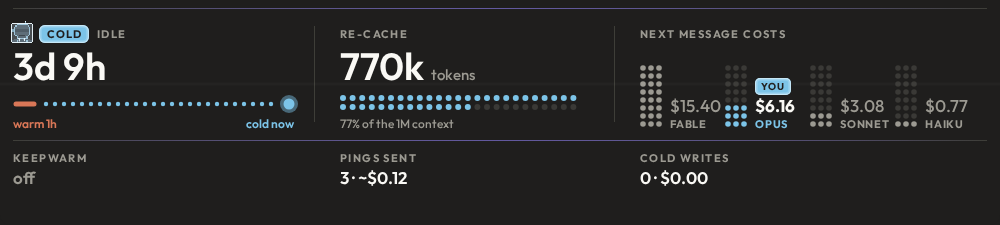
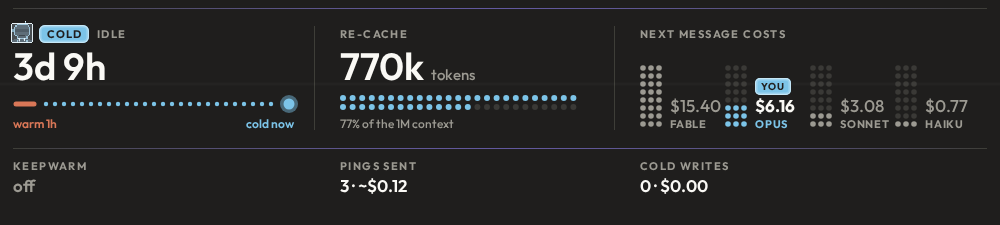
fix(ui): keep the select in the row, one box for card
The select was cut at the right edge: the width estimate was too
tight for the desktop font. Characters, buttons and a safety margin
are larger, and the row gives up the reset times, the USAGE word and
then bar length before anything else. Row and card now share one dark
box, with no grey strip between them and little padding under the card.

Changed region(s): [[0.0, 0.6222, 0.992, 0.8711]]

diff --git a/src/ui/band.tsx b/src/ui/band.tsx
@@ -12,7 +12,7 @@ import { readWindows, windowParts } from '../usage/usage'
 import { CHIP_WIDTHS, barSvg, chipSvg, justPinged, mascotSvg, wordOf } from './art'
 import { cardSvg } from './card'
 import {
-  BAR_H, BAR_W, BAR_W_SHORT, BG, BTN_CHROME, CELL_PX, CHAR_PX, PAD_PX, CELLS, CHIP_EDGE, EMPTY, HEAD_ROWS, HUE, INK, KW_COLORS, KW_LONG_AT, KW_LONG_AT_TERMINAL, LOW_AT, LOW_COLOR, MASCOT_SIZE, MUTED, ROW_PX,
+  BAR_H, BAR_W, BAR_W_SHORT, BG, SAFETY_PX, SELECT_CHROME, BTN_CHROME, CELL_PX, CHAR_PX, PAD_PX, CELLS, CHIP_EDGE, EMPTY, HEAD_ROWS, HUE, INK, KW_COLORS, KW_LONG_AT, KW_LONG_AT_TERMINAL, LOW_AT, LOW_COLOR, MASCOT_SIZE, MUTED, ROW_PX,
   TEXT, CARD_MAX_PX, TIGHT_CELLS, bandPx, kindOf,
 } from './theme'
 
@@ -53,7 +53,7 @@ export async function renderBand($: RenderArgs[0], e: RenderArgs[1], next: Rende
 
   if (list.length === 0 && !view) {
     return (
-      <Box backgroundColor={BG} paddingX="md" paddingY="md">
+      <Box backgroundColor={BG} paddingX="md" paddingTop="md" paddingBottom="md">
         <Text color={MUTED}>{`${t('band.usage')} · ${t('band.waiting')}`}</Text>
       </Box>
     )
@@ -78,13 +78,13 @@ export async function renderBand($: RenderArgs[0], e: RenderArgs[1], next: Rende
 
   // Wide: every window on one row. Narrow: each window is a block of three
   // lines (name and dots, percent left, reset time) so nothing wraps or clips.
-  // `lvl` is how crowded the row is: 0 as drawn, 1 without the reset times, 2 also with shorter bars.
+  // `lvl` is how crowded the row is: 0 as drawn, 1 without the reset times, 2 also without the USAGE word, 3 also with shorter bars.
   const wide = (w: Window, i: number, lvl = 0) => {
     const p = parts(w)
     return (
       <Box key={`w-${i}`} flexDirection="row" flexShrink={0} alignItems="center" marginRight={compact ? 2 : 3}>
         <Text color={MUTED} bold>{p.name} </Text>
-        {meter(p, lvl > 1 ? BAR_W_SHORT : BAR_W)}
+        {meter(p, lvl > 2 ? BAR_W_SHORT : BAR_W)}
         <Text color={p.col} bold> {p.left}%{compact ? '' : ` ${t('band.left')}`}</Text>
         {p.left < LOW_AT ? <Text color={LOW_COLOR} bold>{` ${t('band.low')}`}</Text> : null}
         {p.reset && lvl === 0 ? <Text color={MUTED}> · {p.reset}</Text> : null}
@@ -154,8 +154,8 @@ export async function renderBand($: RenderArgs[0], e: RenderArgs[1], next: Rende
       />
     </Box>
   )
-  const kwRow = (
-    <Box key="kwrow" flexDirection="row" paddingX="md" paddingY="md" alignItems="center">
+  const kwRowOf = (padB: 'sm' | 'md') => (
+    <Box key="kwrow" flexDirection="row" paddingX="md" paddingTop="md" paddingBottom={padB} alignItems="center">
       {kwIndicator}
       {grow}
       {kwSelect}
@@ -166,7 +166,7 @@ export async function renderBand($: RenderArgs[0], e: RenderArgs[1], next: Rende
   // plus the keepwarm row once keepwarm is armed or has stopped.
   if (!view) {
     const row = (
-      <Box key="row" flexDirection="row" paddingX="md" paddingY="md">
+      <Box key="row" flexDirection="row" paddingX="md" paddingTop="md" paddingBottom="md">
         {label}
         {usage}
       </Box>
@@ -174,7 +174,7 @@ export async function renderBand($: RenderArgs[0], e: RenderArgs[1], next: Rende
     return (
       <Box flexDirection="column" width="100%" backgroundColor={BG}>
         {row}
-        {value.tone === 'off' ? null : kwRow}
+        {value.tone === 'off' ? null : kwRowOf('md')}
       </Box>
     )
   }
@@ -200,6 +200,8 @@ export async function renderBand($: RenderArgs[0], e: RenderArgs[1], next: Rende
   }
   const fits = Svg !== null && drawCard(false) !== null
   const open = fits && (stored && stored.mode === mode ? stored.open : cold)
+  // Open, the card follows at once: the row keeps less room under it.
+  const padB = open ? 'sm' : 'md'
   const toggle = () => toggleFold($, mode)
 
   const badge = Svg
@@ -235,11 +237,11 @@ export async function renderBand($: RenderArgs[0], e: RenderArgs[1], next: Rende
   const textPx = (str: string) => str.length * CHAR_PX
   const rowPx = (lvl: number): number => {
     const clock = '00/00 00:00'
-    let px = textPx(t('band.usage')) + (isWide ? 2 : 3) * CELL_PX
+    let px = lvl < 2 ? textPx(t('band.usage')) + (isWide ? 2 : 3) * CELL_PX : 0
     for (const w of list) {
       const p = parts(w)
       const text = `${p.name}  ${p.left}%${compact ? '' : ` ${t('band.left')}`}${p.left < LOW_AT ? ` ${t('band.low')}` : ''}${p.reset && lvl === 0 ? ` · ${p.reset}` : ''}`
-      px += textPx(text) + (Svg ? (lvl > 1 ? BAR_W_SHORT : BAR_W) : 0) + (compact ? 2 : 3) * CELL_PX
+      px += textPx(text) + (Svg ? (lvl > 2 ? BAR_W_SHORT : BAR_W) : 0) + (compact ? 2 : 3) * CELL_PX
     }
     if (!open) {
       const word = CHIP_WIDTHS[`${wordOf(mode)}@13`]?.w ?? 70
@@ -248,16 +250,16 @@ export async function renderBand($: RenderArgs[0], e: RenderArgs[1], next: Rende
     }
     if (!compact) px += textPx(`${isShort ? t('kw.nameShort') : t('kw.name')} ${isShort ? clock : t('kw.until', { time: clock })}`) + 2 * CELL_PX
     px += Math.max(...[t('band.show'), t('band.hide')].map(textPx)) + BTN_CHROME + 2 * CELL_PX
-    return px + textPx(`${t('kw.nameShort')} ${t('kw.select.always')}`) + BTN_CHROME + CELL_PX
+    return px + textPx(`${t('kw.nameShort')} ${t('kw.select.always')}`) + SELECT_CHROME + CELL_PX + SAFETY_PX
   }
   const room = columns * CELL_PX - 2 * PAD_PX
-  const level = !Svg || !isWide ? 0 : rowPx(0) <= room ? 0 : rowPx(1) <= room ? 1 : 2
+  const level = !Svg || !isWide ? 0 : [0, 1, 2].find(l => rowPx(l) <= room) ?? 3
 
   let rows
   if (kind === 'wide') {
     rows = (
-      <Box key="row" flexDirection="row" paddingX="md" paddingY="md" alignItems="center">
-        {label}
+      <Box key="row" flexDirection="row" paddingX="md" paddingTop="md" paddingBottom={padB} alignItems="center">
+        {level < 2 ? label : null}
         {usageAt(level)}
         {open ? null : (
           <Box key="inline" flexDirection="row" flexShrink={0} marginRight={compact ? 1 : 2} alignItems="center">
@@ -274,7 +276,7 @@ export async function renderBand($: RenderArgs[0], e: RenderArgs[1], next: Rende
   } else if (kind === 'stacked') {
     // The cache becomes a third stacked block, the same shape as 7D and 5H.
     rows = (
-      <Box key="row" flexDirection="row" paddingX="md" paddingY="md">
+      <Box key="row" flexDirection="row" paddingX="md" paddingTop="md" paddingBottom={padB}>
         {label}
         {usage}
         {open ? null : (
@@ -296,11 +298,11 @@ export async function renderBand($: RenderArgs[0], e: RenderArgs[1], next: Rende
   } else {
     // Narrow: the cache gets its own row under the usage blocks.
     rows = [
-      <Box key="row" flexDirection="row" paddingX="md" paddingY="md">
+      <Box key="row" flexDirection="row" paddingX="md" paddingTop="md" paddingBottom={padB}>
         {label}
         {usage}
       </Box>,
-      <Box key="cache" flexDirection="row" paddingX="md" paddingY="md" alignItems="center">
+      <Box key="cache" flexDirection="row" paddingX="md" paddingTop="md" paddingBottom={padB} alignItems="center">
         {badge}
         {summary}
         {grow}
@@ -323,11 +325,9 @@ export async function renderBand($: RenderArgs[0], e: RenderArgs[1], next: Rende
   }
 
   return (
-    <Box flexDirection="column" width="100%">
-      <Box flexDirection="column" backgroundColor={BG}>
-        {rows}
-        {isInline ? null : kwRow}
-      </Box>
+    <Box flexDirection="column" width="100%" backgroundColor={BG}>
+      {rows}
+      {isInline ? null : kwRowOf(padB)}
       {card}
     </Box>
   )

diff --git a/tests/keepwarm-band.test.ts b/tests/keepwarm-band.test.ts
@@ -4,7 +4,7 @@ import type { TestBody } from 'claude-code/testing'
 import { setLanguage } from '../src/i18n'
 import { kwCard } from '../src/keepwarm/view'
 import { cardSvg } from '../src/ui/card'
-import { AMBER, HUE, BTN_CHROME, CELL_PX, CHAR_PX, CHIP_EDGE, PAD_PX } from '../src/ui/theme'
+import { AMBER, HUE, BTN_CHROME, SAFETY_PX, SELECT_CHROME, CELL_PX, CHAR_PX, CHIP_EDGE, PAD_PX } from '../src/ui/theme'
 import { answerSession } from './answers'
 import { testIt as test } from './lang'
 
@@ -206,7 +206,7 @@ const px = (n: Node | string): number => {
   const props = n.props ?? {}
   if (n.type === 'Svg') return Number(props.width)
   if (n.type === 'Button') return String(props.label).length * CHAR_PX + BTN_CHROME
-  if (n.type === 'Select') return `${String(props.label)} ${String((props.options as Array<{ label: string }>).reduce((a, o) => (o.label.length > a.length ? o.label : a), ''))}`.length * CHAR_PX + BTN_CHROME
+  if (n.type === 'Select') return `${String(props.label)} ${String((props.options as Array<{ label: string }>).reduce((a, o) => (o.label.length > a.length ? o.label : a), ''))}`.length * CHAR_PX + SELECT_CHROME
   const kids = (n.children ?? []).map(px)
   const inner = props.flexDirection === 'column' ? Math.max(0, ...kids) : kids.reduce((a, b) => a + b, 0)
   return n.type === 'Text' ? inner : inner + (cells(props.marginLeft) + cells(props.marginRight)) * CELL_PX
@@ -223,6 +223,11 @@ test('at 82 and 100 columns with keepwarm armed, the wide row fits its width and
     const select = await band.find({ key: 'keepwarm-select' })
     expect(select?.props.label).toBe('KW')
     expect(await kwValueOf(band)).toBe('6h')
+    expect(await band.find({ key: 'cache-fold' })).toBeDefined()
+    // What gives way goes in order: the reset times, then the USAGE word, then the bar length; never Show or the select.
+    const text = JSON.stringify(row)
+    const [hasReset, hasWord] = [text.includes(' · '), text.includes('USO') || text.includes('USAGE')]
+    expect(!hasWord ? !hasReset : true, `${columns} columns: the word went before the reset times`).toBe(true)
     await band.unmount()
   }
 })

diff --git a/src/ui/card.ts b/src/ui/card.ts
@@ -7,7 +7,7 @@ import { t } from '../i18n'
 import { chipShapes, mascotCss, mascotShapes, svgDoc, wordOf } from './art'
 import {
   CARD_BAR_MS, CARD_BAR_STAGGER_MS, CARD_MASCOT_SIZE, CARD_SCAN_OPACITY, CARD_SCAN_S, CARD_TOP, AMBER, EMPTY, GLINT, HUE, KW_H, KW_H_ROWS, KW_H_SLIM, KW_NOTE_H,
-  BG, LINE, MUTED, NEON_LINE, PANEL_RADIUS, ROW_PX, TEXT,
+  BG, CARD_BOTTOM, LINE, MUTED, NEON_LINE, ROW_PX, TEXT,
 } from './theme'
 import type { Kind } from './theme'
 
@@ -160,7 +160,7 @@ export const cardSvg = (v: CacheView, kind: Kind, W: number, kw: KeepwarmCard, i
   let H: number
   let g: string
   if (kind === 'wide') {
-    H = 132
+    H = 140
     // 92 px a model column on the page's full width; tighter near the switch point,
     // where the last column still needs about 90 px for its price.
     const colW = Math.min(92, Math.floor((W - 640 - 103) / 3))
@@ -192,10 +192,10 @@ export const cardSvg = (v: CacheView, kind: Kind, W: number, kw: KeepwarmCard, i
       stripRows(H)
     H += KW_H_ROWS + (kw.note ? KW_NOTE_H : 0)
   }
-  const h = Math.ceil((H + CARD_TOP) / ROW_PX) * ROW_PX
+  const h = Math.ceil((H + CARD_TOP + CARD_BOTTOM) / ROW_PX) * ROW_PX
   const body =
     defs +
-    `<path d="M0 0H${W}V${h - PANEL_RADIUS}A${PANEL_RADIUS} ${PANEL_RADIUS} 0 0 1 ${W - PANEL_RADIUS} ${h}H${PANEL_RADIUS}A${PANEL_RADIUS} ${PANEL_RADIUS} 0 0 1 0 ${h - PANEL_RADIUS}Z" fill="${BG}"/><g transform="translate(0 ${CARD_TOP})">` +
+    `<rect width="${W}" height="${h}" fill="${BG}"/><g transform="translate(0 ${CARD_TOP})">` +
     hline(0) +
     g +
     '</g>' +

diff --git a/src/ui/theme.ts b/src/ui/theme.ts
@@ -100,8 +100,8 @@ export const CARD_BAR_STAGGER_MS = 80
 export const CARD_BAR_MS = 420
 /** The gap above the card's content, drawn inside the card. */
 export const CARD_TOP = 8
-/** The corner radius of the dark panel's lower edge. */
-export const PANEL_RADIUS = 10
+/** The room under the card's content. */
+export const CARD_BOTTOM = 10
 /** The keepwarm strip's height: one row of three columns, or three stacked rows (plus a line for a stop reason) when narrow. */
 export const KW_H = 62
 export const KW_H_ROWS = 78
@@ -111,10 +111,14 @@ export const KW_H_SLIM = 30
 
 // ---------- Width: what a wide row is estimated to take, in pixels ----------
 /** A character of the desktop's text in the band, and the cell the engine counts (12 px, the code font's advance). */
-export const CHAR_PX = 10
+export const CHAR_PX = 11
 export const CELL_PX = 12
-/** What a native button adds around its label, and the band's side padding (the 'md' step, a guess). */
-export const BTN_CHROME = 32
+/** What a native button adds around its label, and the band's side padding (the 'md' step, a guess); both erred on the generous side after a real screenshot cut the select off. */
+export const BTN_CHROME = 64
+/** A select: its label, value and arrow. */
+export const SELECT_CHROME = 70
+/** Kept free at the end of a wide row on top of the estimate. */
+export const SAFETY_PX = 24
 export const PAD_PX = 12
 
 // ---------- Height ----------

diff --git a/tests/cache.test.ts b/tests/cache.test.ts
@@ -161,9 +161,9 @@ test('an open card stays inside maxRows: full strip, then the one-line strip, th
   expect(String(c12?.props.source)).toContain('width="1000" height="225"')
   await full.unmount()
 
-  const slim = await draw(9)
+  const slim = await draw(10)
   const { card: c11, rows: r10 } = await rowsOf(slim)
-  expect(r10).toBeLessThanOrEqual(9)
+  expect(r10).toBeLessThanOrEqual(10)
   expect(Number(c11?.props.height)).toBeLessThan(Number(c12?.props.height))
   await slim.unmount()
 

diff --git a/CHANGELOG.md b/CHANGELOG.md
@@ -4,7 +4,7 @@
 
 - Restyle in step with Claude Desktop: a neutral warm-grey palette with one violet, Claude coral for WARM and ice blue for COLD. No magenta, pink or lilac.
 - Usage bars instead of dots on the desktop: a rounded bar of what is left with a faint shine and a one-time grow. The terminal keeps dots.
-- One dark panel: the card shares the band's colour (no grey card), has rounded lower corners, and the row has room around its contents. The wide row is sized in pixels from its text and gives up the reset times, then shortens its bars, before anything is cut.
+- One dark panel: the card shares the band's colour (no grey card), sits in one dark box with the row (no grey strip between, no rounded corners: the box can't round them), and the row has room around its contents. The wide row is sized in pixels from its text and gives up the reset times, then the USAGE word, then shortens its bars, before the select or Show is ever cut.
 - Keepwarm is a `Select` (Off, 90m, your window, 12h, Always) in place of the arm/disarm button; the row no longer shows keepwarm text when compact. The card shows the state in colour with the next ping. Show / Hide stays a secondary button with a hover in the cache colour.
 - 5H is teal; the bars have a visible shine and a few drifting light dots; the card scanline is almost gone.
 - A new mascot: a lit netrunner with rising sparks when warm, frozen under a sheet of ice with icicles when cold.
